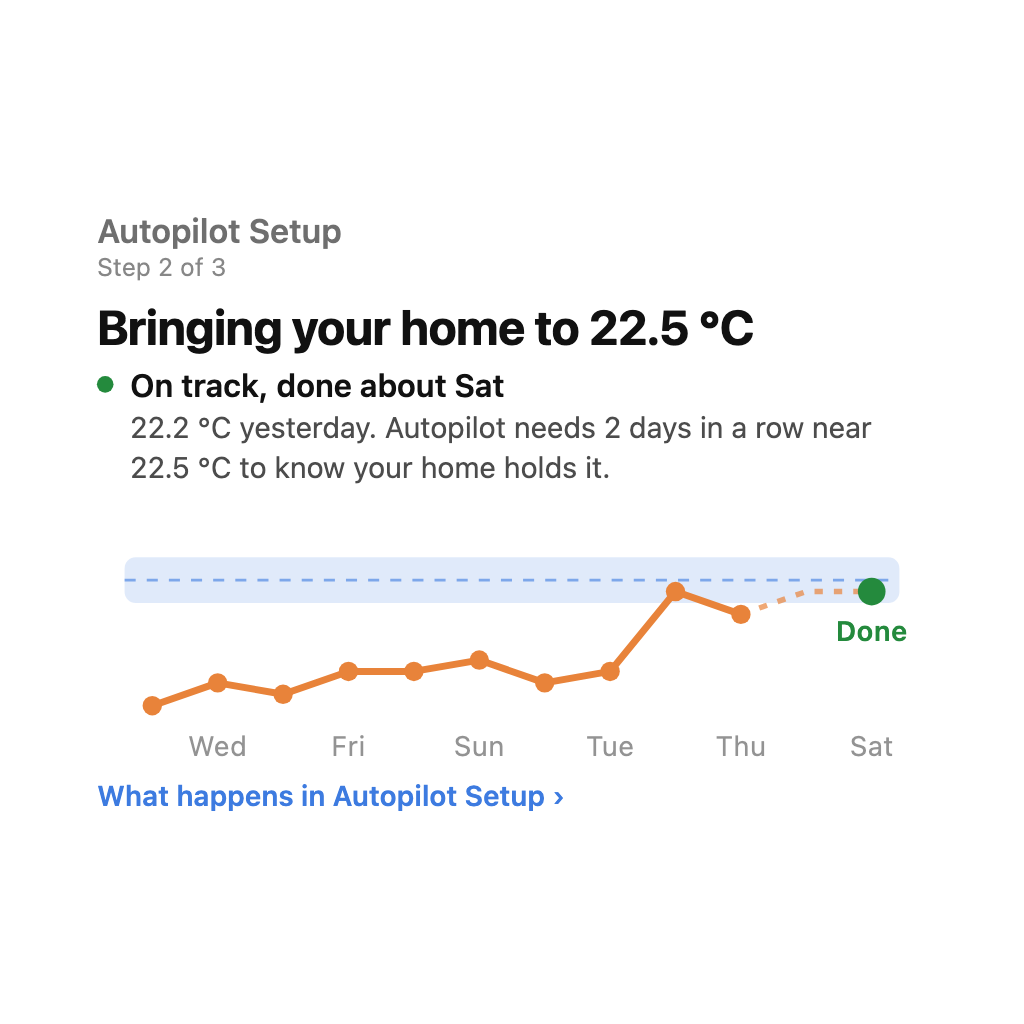
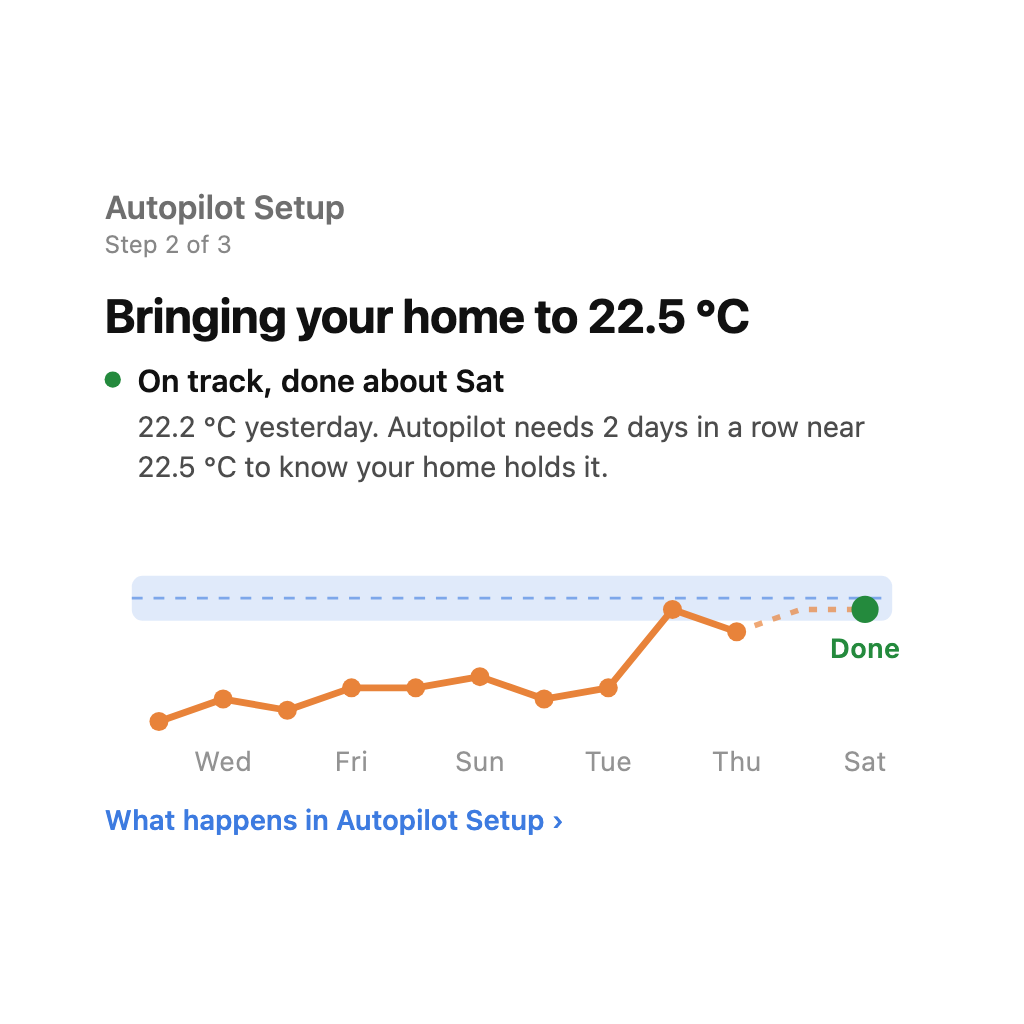
Autopilot Setup card: more air between its parts

diff --git a/widgets/getting_started/public/index.html b/widgets/getting_started/public/index.html
@@ -6,18 +6,18 @@
          what is happening, one says whether it is going as expected and when it is done, and the
          graph walks the days to the target and on to Done. One link to the help section. The
          line draws when the card first shows or its content changes, never on a plain refresh. */
-      .gs { padding: var(--homey-su-2, 8px) var(--homey-su-3, 12px); }
+      .gs { padding: var(--homey-su-3, 12px) var(--homey-su-4, 16px); }
       .gs-title { opacity: 0.6; font-weight: 600; white-space: nowrap; overflow: hidden; text-overflow: ellipsis; }
-      .gs-step { font-size: 0.75em; opacity: 0.5; margin-top: 1px; }
-      .gs-big { margin-top: 8px; font-size: 1.45em; font-weight: 700; letter-spacing: -0.01em; line-height: 1.2; }
-      .gs-status { display: flex; align-items: center; gap: 8px; margin-top: 4px; font-size: 0.95em; font-weight: 600; }
+      .gs-step { font-size: 0.75em; opacity: 0.5; margin-top: 2px; }
+      .gs-big { margin-top: 14px; font-size: 1.45em; font-weight: 700; letter-spacing: -0.01em; line-height: 1.2; }
+      .gs-status { display: flex; align-items: center; gap: 8px; margin-top: 8px; font-size: 0.95em; font-weight: 600; }
       .gs-status i { position: relative; width: 8px; height: 8px; border-radius: 50%; flex: none; background: currentColor; opacity: 0.4; }
-      .gs-why { margin: 2px 0 0 16px; font-size: 0.88em; opacity: 0.75; line-height: 1.35; }
+      .gs-why { margin: 4px 0 0 16px; font-size: 0.88em; opacity: 0.75; line-height: 1.45; }
       .gs-status.good i { background: var(--gs-good); opacity: 1; }
       .gs-status.warn i { background: var(--gs-warn); opacity: 1; }
-      .gs-help { margin-top: 8px; font-size: 0.85em; }
+      .gs-help { margin-top: 14px; font-size: 0.85em; }
       a.gs-link { color: var(--gs-target); font-weight: 600; text-decoration: none; cursor: pointer; }
-      .gs-chart { display: block; width: 100%; margin-top: 10px; overflow: visible; }
+      .gs-chart { display: block; width: 100%; margin-top: 18px; overflow: visible; }
       .gs-empty { opacity: 0.8; margin: 12px 0; }
       :root { --gs-good: #248a3d; --gs-warn: #b4500c; --gs-line: #e8833a; --gs-target: #3d7be0; }
       :root[data-theme="dark"] { --gs-good: #30d158; --gs-warn: #ff9f0a; --gs-line: #f0954f; --gs-target: #6ea0ff; }
